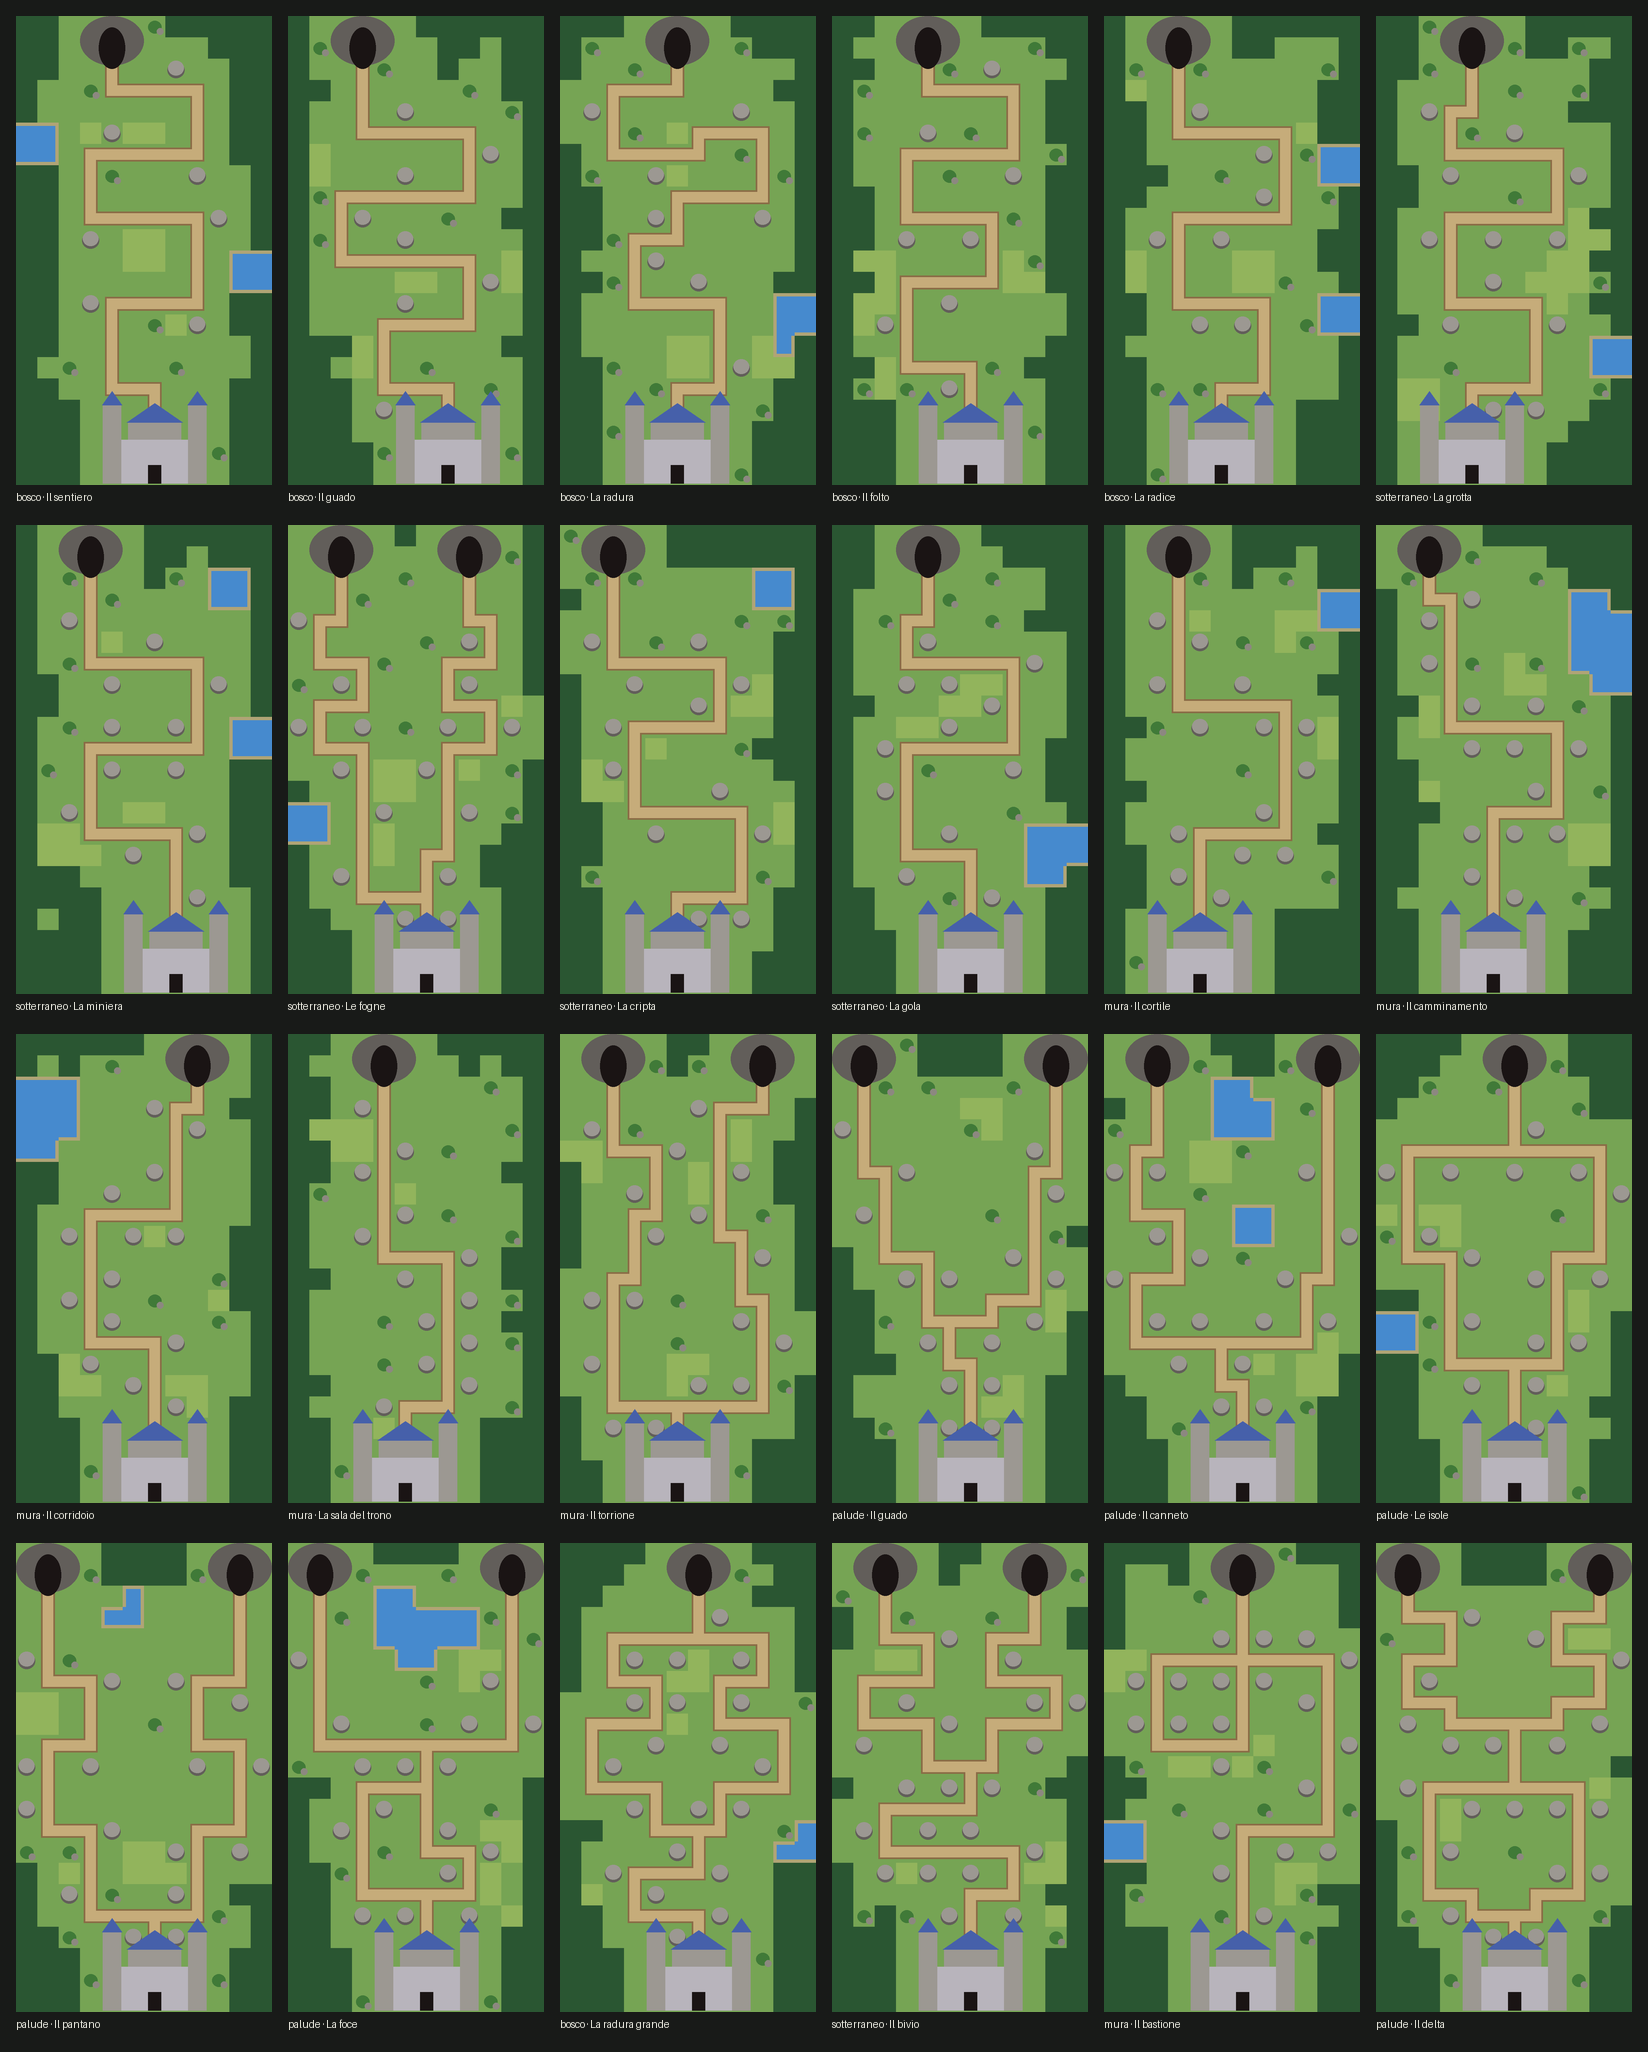
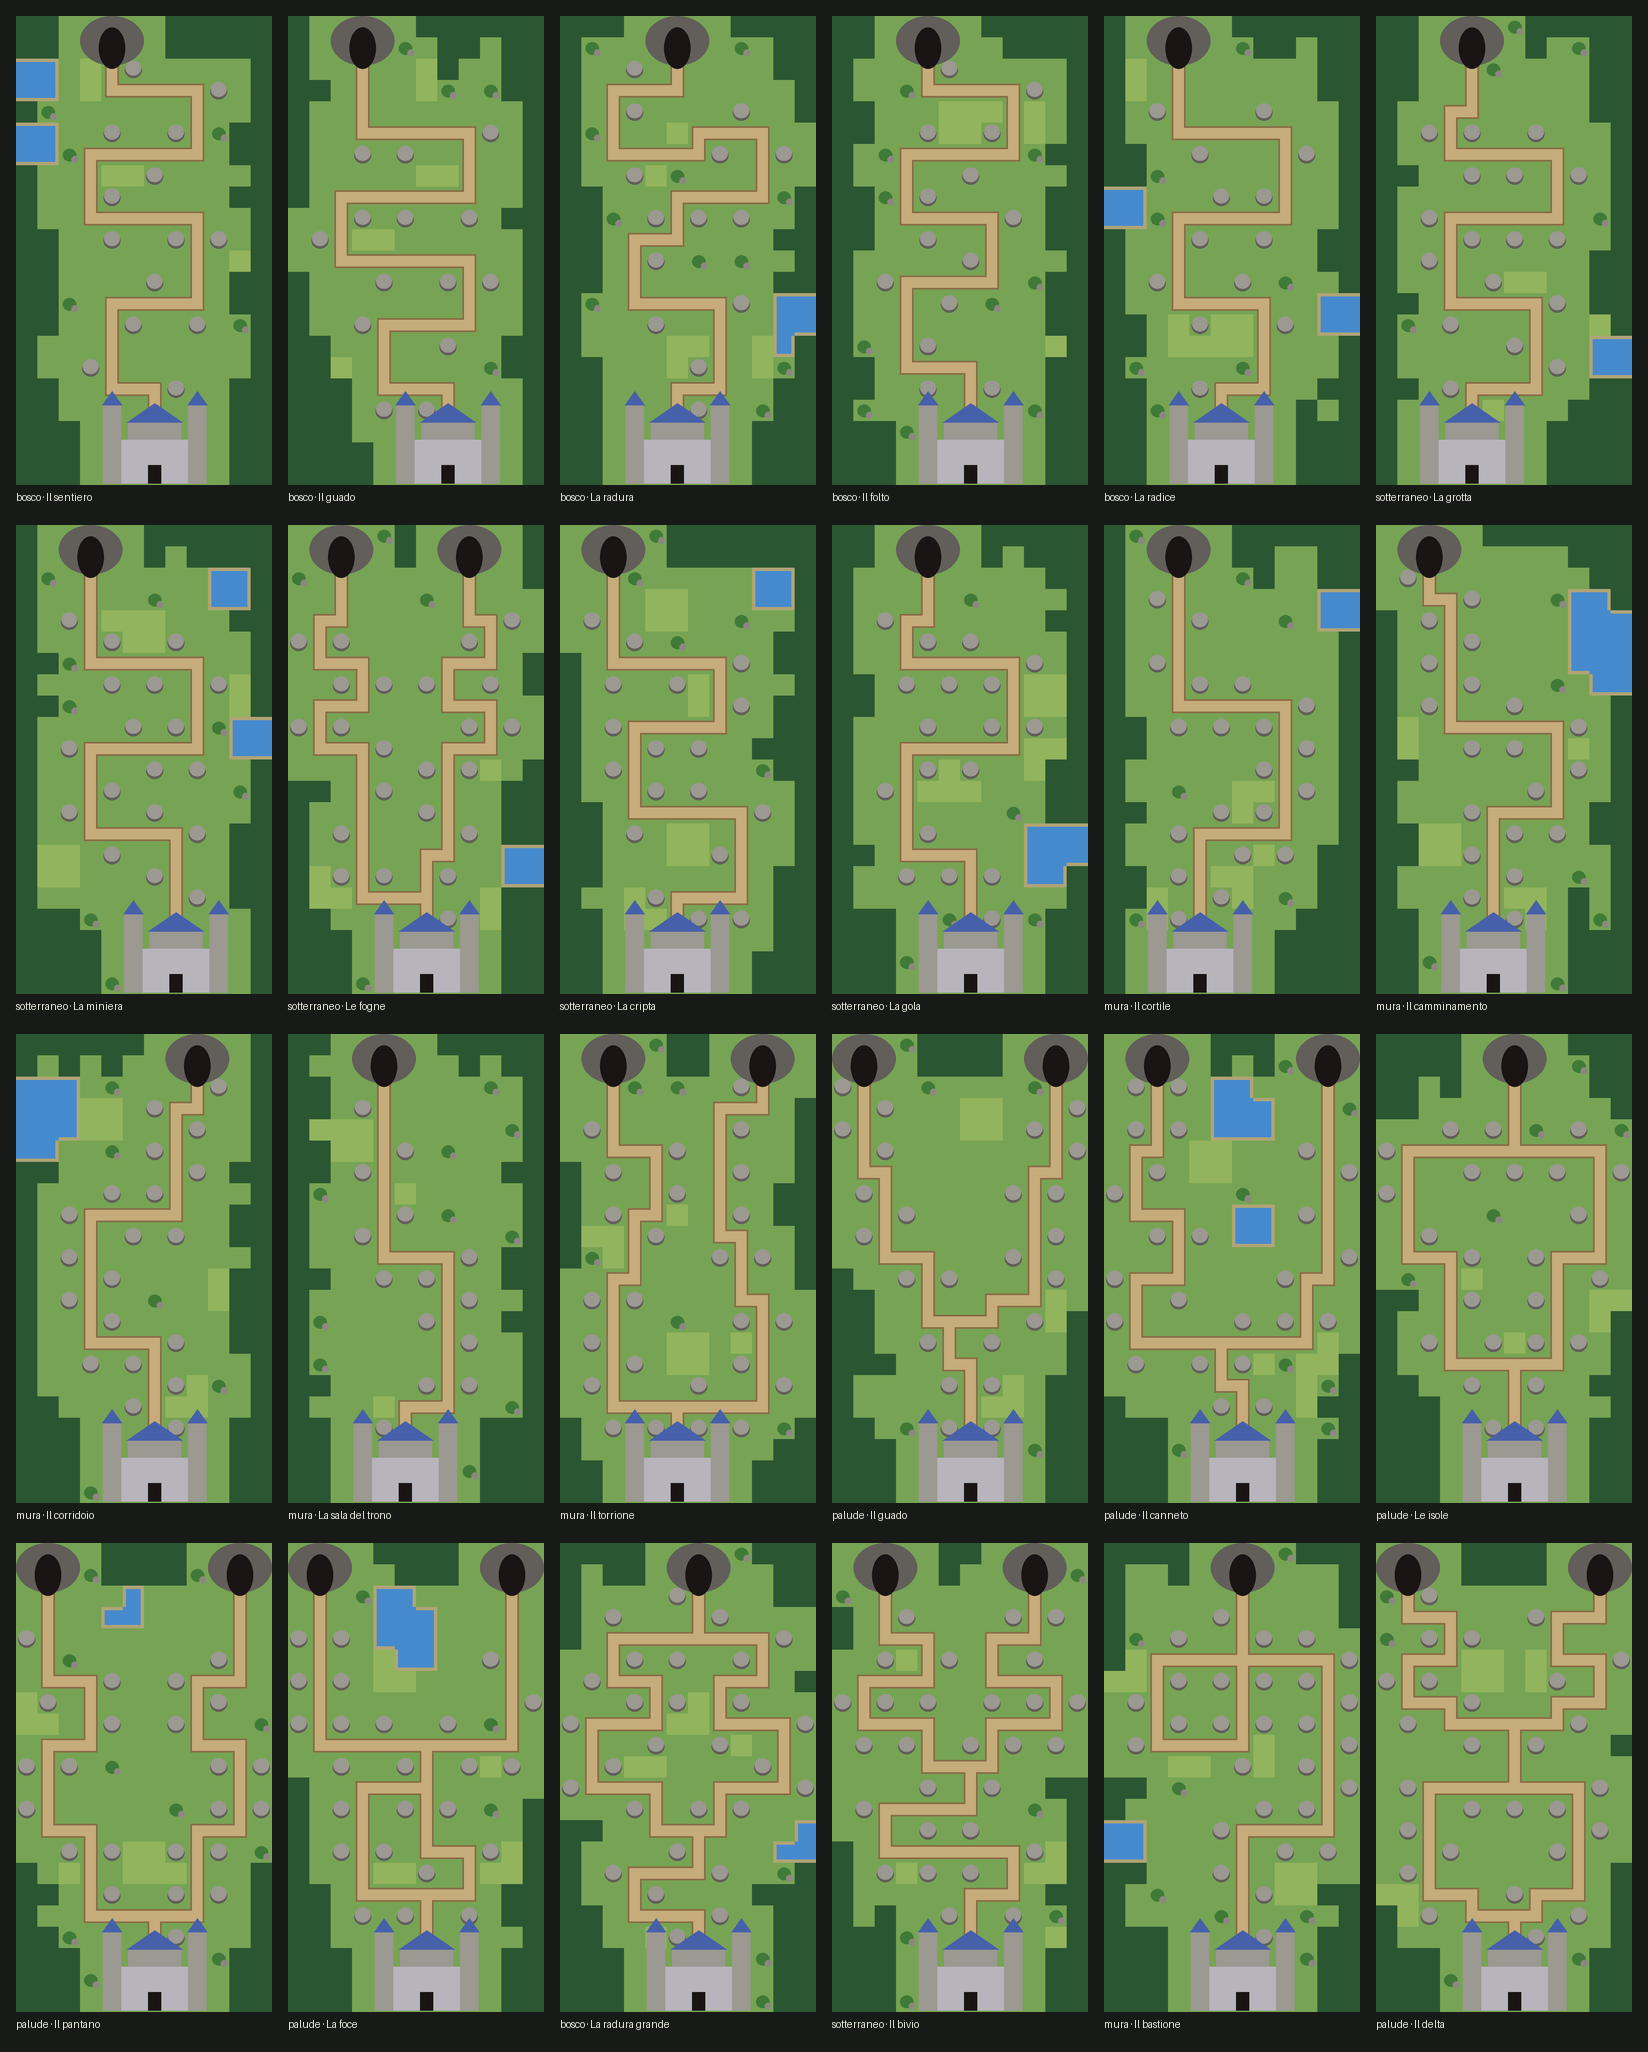
Castello: le piazzole raddoppiano ancora
14 nel Bosco, 18–20 nelle altre, 24–26 dove le bocche sono due, 28 nelle
libere; la radura grande disegnata a mano ne ha 28, la sala del trono ne
tiene 15. Ritarato: con più posti nessuna tappa perdona più il pigro.

diff --git a/src/data/taratura-castello.js b/src/data/taratura-castello.js
@@ -8,33 +8,33 @@
    La `FIRMA` è l'impronta dei numeri da cui è stata ricavata: se prezzi,
    torri o tappe cambiano, il test se ne accorge e chiede di rifarla. */
 export const VITE = {
-  "bosco/Il sentiero": [46, 54, 64],
-  "bosco/Il guado": [77, 94, 102, 126],
-  "bosco/La radura": [68, 78, 112, 112],
-  "bosco/Il folto": [123, 106, 143, 83, 175],
-  "bosco/La radice": [44, 101, 57, 49, 52, 144, 44, 59],
-  "sotterraneo/La grotta": [33, 56, 68, 61, 56, 119],
-  "sotterraneo/La miniera": [96, 142, 133, 101, 61, 103, 210],
-  "sotterraneo/Le fogne": [27, 71, 23, 22, 49, 120, 91],
-  "sotterraneo/La cripta": [60, 47, 55, 95, 62, 169, 81, 99, 103, 107],
-  "sotterraneo/La gola": [84, 97, 149, 59, 31, 168, 94, 97, 245, 125, 10],
-  "mura/Il cortile": [27, 51, 80, 49, 51, 119, 80, 80, 107],
-  "mura/Il camminamento": [31, 43, 40, 47, 31, 52, 40, 97, 111, 52, 130],
-  "mura/Il corridoio": [103, 107, 25, 113, 107, 91, 168, 184, 57, 213, 135],
-  "mura/La sala del trono": [57, 97, 44, 102, 56, 27, 141, 212, 93, 110, 252, 57, 247, 164, 77],
+  "bosco/Il sentiero": [53, 55, 77],
+  "bosco/Il guado": [75, 94, 99, 124],
+  "bosco/La radura": [103, 112, 134, 140],
+  "bosco/Il folto": [116, 95, 133, 83, 164],
+  "bosco/La radice": [60, 128, 57, 73, 104, 178, 86, 67],
+  "sotterraneo/La grotta": [40, 55, 75, 72, 56, 108],
+  "sotterraneo/La miniera": [96, 142, 133, 101, 84, 103, 227],
+  "sotterraneo/Le fogne": [33, 77, 23, 31, 49, 153, 91],
+  "sotterraneo/La cripta": [41, 32, 55, 95, 62, 169, 41, 50, 103, 107],
+  "sotterraneo/La gola": [84, 97, 172, 59, 61, 206, 94, 97, 245, 142, 17],
+  "mura/Il cortile": [20, 51, 76, 45, 51, 135, 64, 80, 107],
+  "mura/Il camminamento": [30, 43, 40, 47, 31, 52, 40, 97, 111, 52, 130],
+  "mura/Il corridoio": [86, 86, 25, 110, 123, 91, 168, 129, 57, 213, 135],
+  "mura/La sala del trono": [57, 86, 22, 97, 56, 27, 145, 212, 93, 110, 252, 57, 242, 164, 77],
   "mura/Il torrione": [77, 52, 79, 45, 131, 92, 93, 165, 57, 118, 119, 201, 58, 150, 23],
-  "palude/Il guado": [20, 61, 23, 16, 58, 136, 75],
-  "palude/Il canneto": [45, 53, 46, 48, 126, 66, 69, 97, 90],
-  "palude/Le isole": [20, 53, 180, 55, 70, 193, 29, 97, 210, 87, 157],
-  "palude/Il pantano": [72, 53, 64, 69, 80, 126, 33, 105, 62, 107, 59],
-  "palude/La foce": [20, 52, 45, 40, 89, 149, 65, 94, 72, 99, 107, 380, 28],
-  "libera-bosco": [60, 58, 105, 53, 110, 34, 127, 71, 49, 21, 103, 138, 144, 259, 49, 385, 149, 149, 413, 21],
-  "libera-sotterraneo": [45, 20, 94, 32, 19, 114, 66, 171, 67, 28, 154, 248, 99, 211, 42, 19, 279, 251, 359, 28],
-  "libera-mura": [166, 80, 47, 89, 166, 89, 67, 234, 200, 35, 40, 347, 173, 124, 226, 528, 222, 271, 1088, 70],
-  "libera-palude": [40, 46, 21, 14, 33, 15, 86, 125, 49, 24, 245, 43, 53, 48, 37, 100, 307, 91, 213, 46],
+  "palude/Il guado": [23, 61, 23, 16, 19, 123, 75],
+  "palude/Il canneto": [45, 27, 46, 48, 100, 66, 69, 97, 90],
+  "palude/Le isole": [27, 53, 152, 55, 70, 152, 29, 97, 301, 90, 157],
+  "palude/Il pantano": [75, 53, 65, 69, 80, 191, 65, 105, 62, 107, 59],
+  "palude/La foce": [27, 26, 48, 42, 79, 145, 68, 94, 72, 99, 67, 254, 32],
+  "libera-bosco": [45, 14, 100, 32, 70, 34, 125, 59, 49, 14, 53, 138, 113, 196, 49, 270, 149, 129, 338, 14],
+  "libera-sotterraneo": [45, 20, 47, 32, 15, 72, 64, 140, 65, 21, 154, 230, 99, 271, 42, 19, 371, 229, 224, 21],
+  "libera-mura": [146, 87, 47, 89, 181, 68, 67, 244, 200, 24, 40, 294, 180, 124, 226, 432, 196, 261, 1689, 65],
+  "libera-palude": [40, 46, 21, 14, 33, 15, 75, 132, 49, 23, 217, 43, 61, 48, 37, 75, 342, 104, 270, 48],
 }
 /* di quanto cresce la vita in ogni partita libera dopo l'ultima ondata
    tarata: da lì in poi non c'è tabella, c'è questa progressione */
-export const OLTRE = {"libera-bosco":1.3,"libera-sotterraneo":1.3,"libera-mura":1.31,"libera-palude":1.3}
-export const FIRMA = "1d62af23"
+export const OLTRE = {"libera-bosco":1.3,"libera-sotterraneo":1.3,"libera-mura":1.36,"libera-palude":1.3}
+export const FIRMA = "479962c7"
 export const BERSAGLIO = [0.6, 0.85]

diff --git a/src/data/castello.js b/src/data/castello.js
@@ -448,9 +448,9 @@ export function partenzaDi(tappa) {
 
 // Almeno il doppio delle torri del piano e mai meno delle torri offerte;
 // sopra, una quota per campagna. Vedi docs/castello/taratura.md («Le piazzole»).
-export const PIAZZOLE = { bosco: 8, sotterraneo: 12, mura: 14, palude: 12 }
-export const PIAZZOLE_PER_INGRESSO = 4
-export const PIAZZOLE_LIBERE = 20
+export const PIAZZOLE = { bosco: 14, sotterraneo: 18, mura: 20, palude: 18 }
+export const PIAZZOLE_PER_INGRESSO = 6
+export const PIAZZOLE_LIBERE = 28
 export const ingressiDi = t => (t.forme || [t.forma || []]).length
 // Quante difese separate chiede davvero una tappa: non è il numero di
 // bocche. Due strade che restano separate ne chiedono due; due che si
@@ -459,8 +459,9 @@ export const frontiDi = t => t.fronti || ingressiDi(t)
 export function postiDi(tappa) {
   const piano = pianoDi(tappa).torri.length
   const minimo = Math.max(2 * piano, piano + 1, 3, (tappa.torri || []).length)
-  return Math.max(minimo, PIAZZOLE[tappa.campagna] || 0) +
-         (ingressiDi(tappa) - 1) * PIAZZOLE_PER_INGRESSO
+  return Math.min(tappa.piazzoleMax ?? Infinity,
+                  Math.max(minimo, PIAZZOLE[tappa.campagna] || 0) +
+                  (ingressiDi(tappa) - 1) * PIAZZOLE_PER_INGRESSO)
 }
 
 // Comprare tutto: occupare ogni posto e portare ogni torre in cima.

diff --git a/src/data/campagne-castello.js b/src/data/campagne-castello.js
@@ -272,7 +272,8 @@ export const CAMPAGNE = [
         // 💣❄ · — · 🔮❄ · 💣❄ · — · 🏹💣
         mostri: ['pipistrello', 'slime', 'scheletro', 'arpia', 'orco', 'fantasma'],
         forma: MURA_CORRIDOIO },
-      { nome: 'La sala del trono', emoji: '👑', calcoli: 26, cap: 10,
+      // la strada è raccolta: a passi uguali, e a una cella l'una dall'altra, ce ne stanno 15 (con 16 le prime tre del modello cadono in due terzi)
+      { nome: 'La sala del trono', emoji: '👑', calcoli: 26, cap: 10, piazzoleMax: 15,
         torri: ['add', 'sub', 'mul', 'div'], rami: true, divisioni: 2,
         // 💣❄ · — · 🏹💣 · — · 💣❄ · 🔮💣 · — · — · 🏹🔮
         mostri: ['arpia', 'orco', 'fantasma', 'balestriere', 'pipistrello', 'drago',

diff --git a/src/motore/castello/carta.js b/src/motore/castello/carta.js
@@ -19,16 +19,16 @@ export const A_MANO = {
   'libera-bosco': [
     '............',
     '............',
-    '......+.....',
-    '......+o....',
-    '..++++++++..',
+    '.....o+.....',
+    '..o...+o....',
+    '..++++++++o.',
     '..+o.o..o+..',
-    '..+++..+++..',
+    '.o+++..+++..',
     '...o+o.+o...',
-    '.++++..++++.',
+    'o++++..++++o',
     '.+..o..o..+.',
     '.+o......o+.',
-    '.++++..++++.',
+    'o++++..++++o',
     '...o+.o+o...',
     '....++++....',
     '.....o+.....',

diff --git a/docs/castello/piazzole.md b/docs/castello/piazzole.md
@@ -15,23 +15,30 @@ il disegno in `cartaDi` (`src/motore/castello/carta.js`).
   tappa offre (se no la scelta di quale mettere è finta). Il piano ne
   occupa tre o quattro, quindi oggi comanda la quota qui sotto: il doppio
   è il pavimento se un piano crescesse.
-- **Una quota per campagna** (`PIAZZOLE`): bosco 8, sotterraneo 12, mura
-  14, palude 12. Cresce con quello che la campagna chiede.
-- **+4 per ogni bocca oltre la prima** (`PIAZZOLE_PER_INGRESSO`): ogni
+- **Una quota per campagna** (`PIAZZOLE`): bosco 14, sotterraneo 18, mura
+  20, palude 18. Cresce con quello che la campagna chiede. Il 30 settembre
+  è raddoppiata una seconda volta: con 8 nel Bosco «sembrano poche, più
+  piazzole → più strategia» (l'utente).
+- **Un tetto per tappa, dove la strada è raccolta** (`piazzoleMax`): la sala
+  del trono ne tiene 15 — a passi uguali e a una cella l'una dall'altra, con
+  16 le prime tre del modello cadevano in due terzi soli.
+- **+6 per ogni bocca oltre la prima** (`PIAZZOLE_PER_INGRESSO`): ogni
   strada vuole le sue prima di unirsi all'altra, in testa, a metà e in
   fondo.
-- **Le libere ne hanno venti** (`PIAZZOLE_LIBERE`): la partita è lunga e la
-  difesa cresce per venti ondate.
+- **Le libere ne hanno ventotto** (`PIAZZOLE_LIBERE`): la partita è lunga e
+  la difesa cresce per venti ondate. La radura grande è disegnata a mano
+  (`A_MANO`), e le sue ventotto `o` stanno scritte lì.
 
-| campagna | prima | adesso |
+| campagna | all'inizio | adesso |
 |---|---|---|
-| Bosco (cinque tappe) | 4 | 8 |
-| Sotterraneo: grotta, miniera, cripta, gola | 6 | 12 |
-| Sotterraneo: le fogne (due bocche) | 9 | 16 |
-| Mura: cortile, camminamento, corridoio, sala del trono | 8 | 14 |
-| Mura: il torrione (due bocche) | 11 | 18 |
-| Palude (cinque tappe, due bocche) | 8 | 16 |
-| Libere (quattro) | 14 | 20 |
+| Bosco (cinque tappe) | 4 | 14 |
+| Sotterraneo: grotta, miniera, cripta, gola | 6 | 18 |
+| Sotterraneo: le fogne (due bocche) | 9 | 24 |
+| Mura: cortile, camminamento, corridoio | 8 | 20 |
+| Mura: la sala del trono | 8 | 15 |
+| Mura: il torrione (due bocche) | 11 | 26 |
+| Palude (cinque tappe, due bocche) | 8 | 24 |
+| Libere (quattro) | 14 | 28 |
 
 - **Più piazzole non spostano i calcoli**: il piano (`pianoDi`) non
   guarda i posti, e `operazioniDi` torna uguale a `calcoli` tappa per

diff --git a/docs/castello/taratura.md b/docs/castello/taratura.md
@@ -173,11 +173,9 @@ npm run tara -- --da 0.6 --bersaglio 0.85
   tappa intera.
 - **La promessa:** chi spende tutto finisce la tappa; chi tiene in tasca un
   quarto no (perde diciannove volte su venti); il pasticcione ce la fa.
-  L'eccezione sta scritta col suo nome in `unita/castello` (`PERDONANO`):
-  dalle piazzole sparse è la gola del Sotterraneo, che il pigro finisce con
-  un cuore ([5,4,4] contro il [7,6,6] del metro) perché il capo in fondo
-  toglie quattro cuori a tutti e due; le isole, che perdonavano dal
-  passaggio alle carte, non perdonano più.
+  Un'eccezione si scrive col suo nome in `unita/castello` (`PERDONANO`):
+  con le piazzole del 30 settembre l'elenco è vuoto (la gola, e prima le
+  isole, perdonavano con meno posti).
 
 ## La vecchia curva, e a cosa serve ancora
 

diff --git a/docs/castello/da-fare.md b/docs/castello/da-fare.md
@@ -17,9 +17,6 @@ Le voci aperte, con quanto basta per riprenderle.
   il foglio della torre al quarto gradino mostra le due carte con una riga
   ciascuna, e la guida del `?` ne parla in una riga. Se serva qualcosa la
   prima volta che compare — e cosa — è da decidere.
-- **La gola perdona il pigro** (`PERDONANO` in `unita/castello`): il
-  taratore guarda fin dove arrivano i nemici e non dove muoiono, e il capo
-  in fondo toglie quattro cuori al metro e al pigro allo stesso modo.
 - **Il castello a sprite: quello che manca.** I quattro vestiti per
   campagna (grotte e mura prendono in prestito lava e neve, vedi
   `VESTITO_DI` in `scena/vestito.js`); i mostri che respirano sul posto ma
